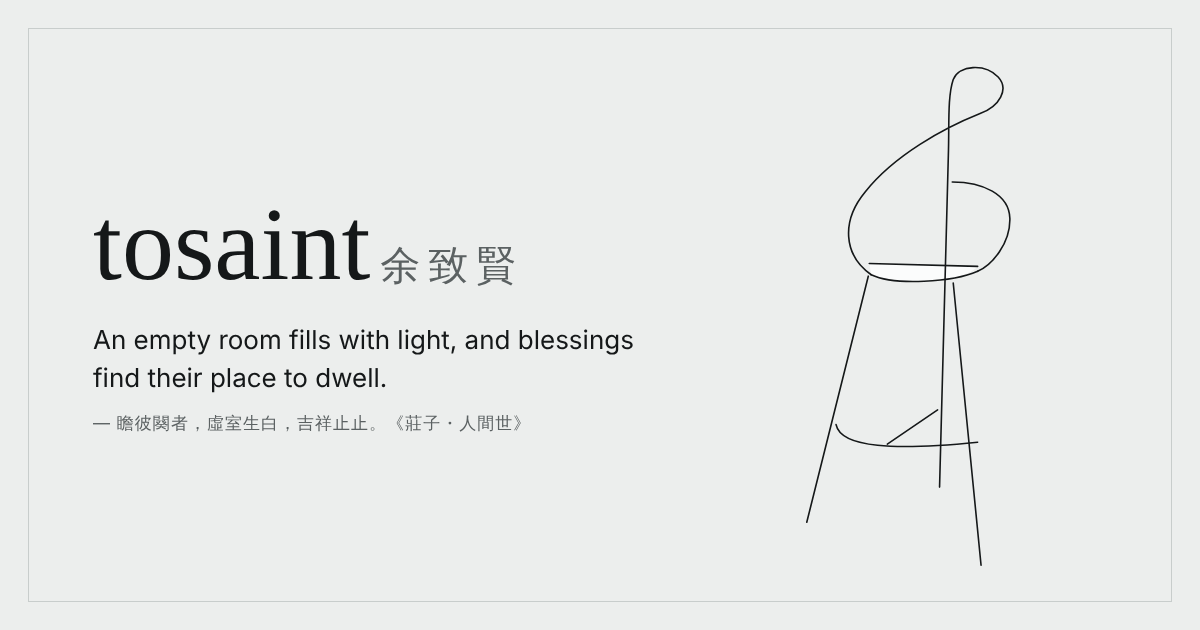
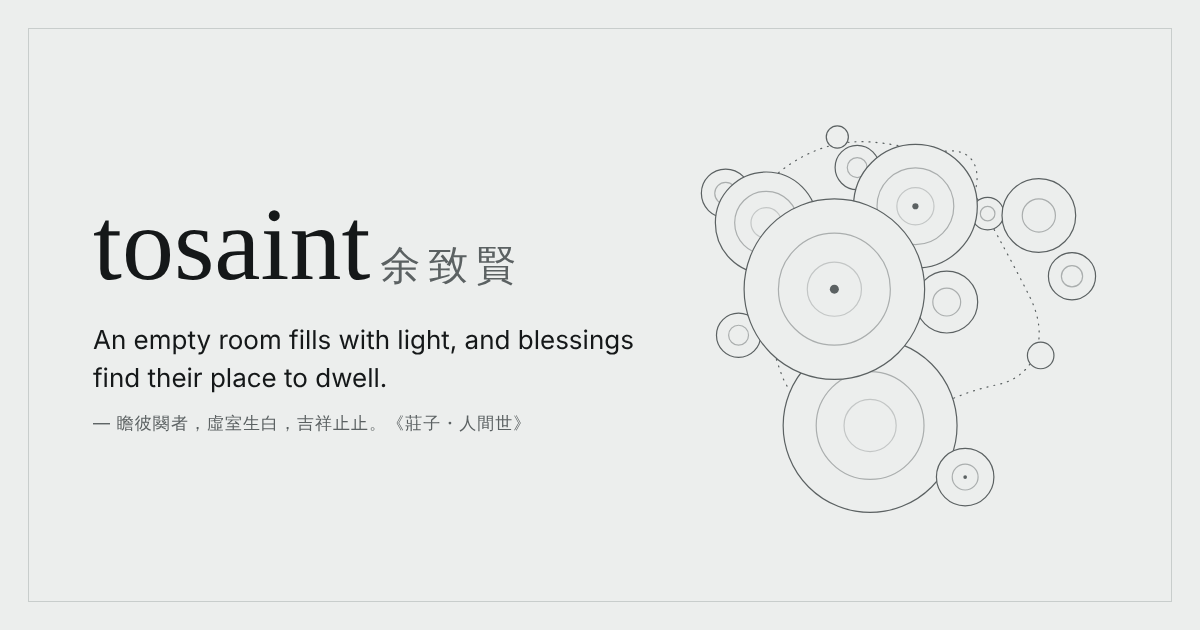
Replace stool with plan line drawing of 水聲木, with a slow ripple
Claude-Session: https://claude.ai/code/session_01APYZqy7Q2kTr5qsNGYdeGs

diff --git a/index.html b/index.html
@@ -61,9 +61,14 @@ h1 .zh { display: inline-block; font: 300 clamp(24px, 3.6vw, 44px)/1 var(--zh); 
 .enter:hover .line, .enter:focus-visible .line { transform: scaleX(1); }
 @media (prefers-reduced-motion: reduce) { .enter .line { transition: none; } }
 
-.chair { width: auto; height: min(58vh, 520px); justify-self: center; color: var(--ink); }
-.chair path { vector-effect: non-scaling-stroke; }
-.chair .seat { fill: var(--light); }
+.water { width: 100%; max-width: 330px; height: auto; justify-self: center; color: var(--ink-2); overflow: visible; }
+.water path, .water circle { vector-effect: non-scaling-stroke; }
+.water .disc { fill: var(--ground); stroke-opacity: .8; }
+.water .knob { fill: var(--ink-2); stroke: none; }
+.water .sand { stroke-dasharray: 1 6; stroke-linecap: round; fill: none; opacity: .7; }
+.water .ripple { stroke: var(--ink-2); transform-box: fill-box; transform-origin: center; animation: ripple 9s ease-out infinite; opacity: 0; }
+@keyframes ripple { 0% { transform: scale(1); opacity: .5; } 70%, 100% { transform: scale(1.9); opacity: 0; } }
+@media (prefers-reduced-motion: reduce) { .water .ripple { animation: none; } }
 
 .block { display: grid; grid-template-columns: 1.6fr 1fr 1fr; border-top: 1px solid var(--hair); }
 .cell { padding: 16px clamp(18px, 4vw, 40px) 18px; display: grid; gap: 6px; align-content: start; min-width: 0; }
@@ -79,7 +84,7 @@ h1 .zh { display: inline-block; font: 300 clamp(24px, 3.6vw, 44px)/1 var(--zh); 
 
 @media (max-width: 820px) {
   .field { grid-template-columns: 1fr; padding-block: 40px 32px; }
-  .chair { height: 240px; justify-self: start; order: -1; }
+  .water { max-width: 190px; justify-self: start; order: -1; }
   .block { grid-template-columns: 1fr 1fr; }
   .cell.now { grid-column: 1 / -1; }
   .cell.now + .cell { border-left: 0; }
@@ -109,17 +114,25 @@ h1 .zh { display: inline-block; font: 300 clamp(24px, 3.6vw, 44px)/1 var(--zh); 
       <a class="enter" href="/portfolio/">Portfolio <span class="line" aria-hidden="true"></span></a>
     </div>
 
-    <!-- treble-clef stool, designed by tosaint; traced from a photo of the piece -->
-    <svg class="chair" viewBox="560 95 470 1065" fill="none" stroke="currentColor" stroke-width="1.3" stroke-linecap="round" stroke-linejoin="round" role="img" aria-label="Line drawing of a bar stool whose back is a treble clef, designed by tosaint">
-      <path class="seat" d="M708 522 L 930 528 C 920 540, 880 560, 800 560 C 760 560, 725 552, 712 545 Z" stroke="none"/>
-      <path d="M852 980 C 858 700, 866 420, 870 300 C 872 240, 868 180, 880 145 C 892 115, 945 112, 972 140 C 995 165, 975 200, 935 215 C 860 245, 760 300, 700 375 C 650 435, 655 505, 712 545"/>
-      <path d="M878 355 C 940 355, 995 380, 996 430 C 997 480, 960 525, 930 538"/>
-      <path d="M712 545 C 760 568, 880 560, 930 538"/>
-      <path d="M708 522 L 930 528"/>
-      <path d="M706 548 L 580 1052"/>
-      <path d="M880 562 L 937 1140"/>
-      <path d="M640 852 C 650 900, 760 905, 930 888"/>
-      <path d="M745 892 L 848 822"/>
+    <!-- 水聲木 (own work), redrawn in plan from a photo: concentric rings like ripples -->
+    <svg class="water" viewBox="120 150 1140 1080" fill="none" stroke="currentColor" stroke-width="1" role="img" aria-label="Line drawing in plan of 水聲木: turned wooden discs and bowls with concentric rings, lying on white sand like ripples on water">
+      <path class="sand" d="M340 330 C 420 250, 520 215, 610 220 C 700 225, 760 250, 830 245 C 900 240, 920 300, 900 360 C 960 470, 1010 560, 1050 640 C 1110 760, 1060 860, 960 880 C 860 900, 760 950, 700 1000 C 560 1000, 420 960, 380 860 C 340 760, 300 560, 320 450 C 330 400, 320 360, 340 330 Z"/>
+      <g><circle class="disc" cx="528" cy="207" r="30"/></g>
+      <g><circle class="disc" cx="812" cy="275" r="16"/></g>
+      <g><circle class="disc" cx="582" cy="290" r="60"/><circle cx="582" cy="290" r="27.0" opacity="0.45"/></g>
+      <g><circle class="disc" cx="225" cy="360" r="66"/><circle cx="225" cy="360" r="29.7" opacity="0.45"/></g>
+      <g><circle class="disc" cx="936" cy="415" r="44"/><circle cx="936" cy="415" r="19.8" opacity="0.45"/></g>
+      <g><circle class="disc" cx="1075" cy="420" r="100"/><circle cx="1075" cy="420" r="45.0" opacity="0.45"/></g>
+      <g><circle class="disc" cx="740" cy="395" r="168"/><circle cx="740" cy="395" r="104.2" opacity="0.45"/><circle cx="740" cy="395" r="50.4" opacity="0.28"/><circle class="knob" cx="740" cy="395" r="8.4"/></g>
+      <g><circle class="disc" cx="335" cy="440" r="138"/><circle cx="335" cy="440" r="85.6" opacity="0.45"/><circle cx="335" cy="440" r="41.4" opacity="0.28"/></g>
+      <g><circle class="disc" cx="1165" cy="585" r="64"/><circle cx="1165" cy="585" r="28.8" opacity="0.45"/></g>
+      <g><circle class="disc" cx="825" cy="655" r="84"/><circle cx="825" cy="655" r="37.8" opacity="0.45"/></g>
+      <g><circle class="disc" cx="1080" cy="800" r="36"/></g>
+      <g><circle class="disc" cx="260" cy="745" r="60"/><circle cx="260" cy="745" r="27.0" opacity="0.45"/></g>
+      <g><circle class="disc" cx="617" cy="990" r="236"/><circle cx="617" cy="990" r="146.3" opacity="0.45"/><circle cx="617" cy="990" r="70.8" opacity="0.28"/></g>
+      <g><circle class="disc" cx="520" cy="620" r="245"/><circle cx="520" cy="620" r="151.9" opacity="0.45"/><circle cx="520" cy="620" r="73.5" opacity="0.28"/><circle class="knob" cx="520" cy="620" r="12.2"/></g>
+      <g><circle class="disc" cx="875" cy="1130" r="78"/><circle cx="875" cy="1130" r="35.1" opacity="0.45"/><circle class="knob" cx="875" cy="1130" r="5"/></g>
+      <circle class="ripple" cx="520" cy="620" r="245"/>
     </svg>
   </main>
 
@@ -138,7 +151,7 @@ h1 .zh { display: inline-block; font: 300 clamp(24px, 3.6vw, 44px)/1 var(--zh); 
     </div>
     <div class="cell">
       <p class="k">Sheet 00</p>
-      <p class="v mono">Drawing: treble clef stool, own design</p>
+      <p class="v mono">Drawing: 水聲木, own work</p>
     </div>
   </footer>
 </div>
